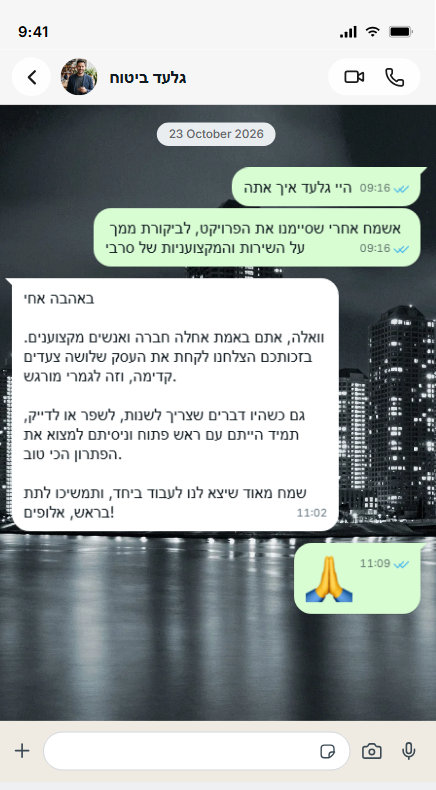
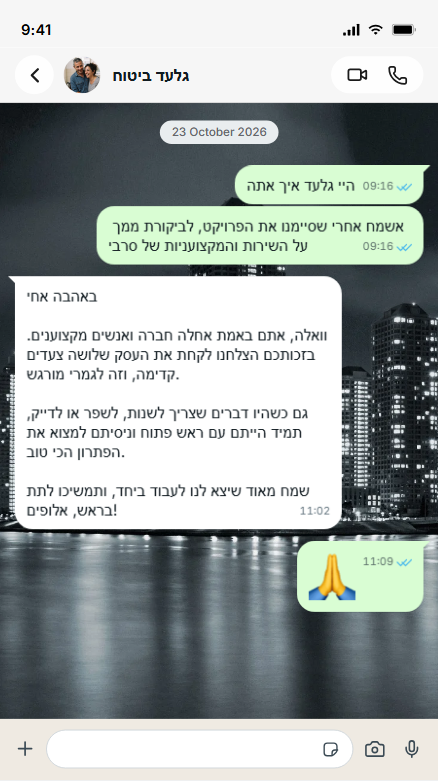
New Gilad review screenshot; demo result is now a tailored system screen with 3 plain steps

diff --git a/index.html b/index.html
@@ -172,41 +172,22 @@
   .try-opt-icon { display: grid; place-items: center; flex-shrink: 0; width: 38px; height: 38px; border-radius: 11px; background: #E6F4F3; color: #115E59; }
   .try-fade { animation: tryIn .45s cubic-bezier(.16,1,.3,1) both; }
   @keyframes tryIn { from { opacity: 0; transform: translateY(10px); } to { opacity: 1; transform: none; } }
-  /* Demo preview window: its own dark "product" palette (indigo/violet/cyan), distinct from the site's greens */
-  .app-win { position: relative; border-radius: 1.25rem; background: #0f1224; border: 1px solid rgba(255,255,255,0.08); box-shadow: 0 40px 80px -40px rgba(49,46,129,0.75), 0 0 0 1px rgba(124,92,255,0.12); overflow: hidden; color: #e8eaf6; }
-  .app-win::before { content: ''; position: absolute; inset: -40% -20% auto auto; width: 70%; height: 90%; background: radial-gradient(closest-side, rgba(124,92,255,0.35), transparent); filter: blur(20px); pointer-events: none; animation: appGlow 8s ease-in-out infinite alternate; }
-  .app-win::after { content: ''; position: absolute; inset: auto auto -40% -20%; width: 60%; height: 80%; background: radial-gradient(closest-side, rgba(34,211,238,0.22), transparent); filter: blur(20px); pointer-events: none; animation: appGlow 10s ease-in-out infinite alternate-reverse; }
-  @keyframes appGlow { from { transform: translate(0,0); } to { transform: translate(-30px, 20px); } }
-  .app-win > * { position: relative; z-index: 1; }
-  .app-bar { display: flex; align-items: center; gap: .5rem; padding: .7rem 1rem; background: rgba(255,255,255,0.03); border-bottom: 1px solid rgba(255,255,255,0.07); }
-  .app-bar i.dot { width: 10px; height: 10px; border-radius: 99px; background: rgba(255,255,255,0.14); display: inline-block; }
-  .app-muted { color: #8d93b8; }
-  .demo-badge { margin-inline-start: auto; border-radius: 99px; background: rgba(255,255,255,0.07); color: #a9aecd; font-size: 11px; padding: .15rem .55rem; }
-  .app-label { margin-bottom: .6rem; font-size: 12px; font-weight: 600; color: #a9aecd; }
-  .flow3 { display: grid; grid-template-columns: 1fr auto 1fr auto 1fr; align-items: stretch; gap: .5rem; }
-  .flow-step { display: flex; flex-direction: column; align-items: center; gap: .3rem; text-align: center; border-radius: .9rem; background: rgba(255,255,255,0.05); border: 1px solid rgba(255,255,255,0.09); padding: .8rem .5rem; }
-  .flow-step b { font-size: .85rem; line-height: 1.3; color: #fff; }
-  .flow-step small { font-size: 11px; color: #a9aecd; }
-  .flow-step-ai { background: linear-gradient(135deg, rgba(124,92,255,0.35), rgba(34,211,238,0.18)); border-color: rgba(124,92,255,0.45); }
-  .flow-ico { display: grid; place-items: center; width: 2rem; height: 2rem; border-radius: 999px; background: rgba(255,255,255,0.1); color: #e8eaf6; }
-  .flow-step-ai .flow-ico { background: linear-gradient(135deg, #7c5cff, #22d3ee); color: #fff; }
-  .flow-arrow { align-self: center; color: #8d93b8; font-size: 1.1rem; }
-  @media (max-width: 560px) { .flow3 { grid-template-columns: 1fr; } .flow-arrow { transform: rotate(-90deg); justify-self: center; } }
-  .feat-list { display: grid; gap: .5rem; }
-  @media (min-width: 640px) { .feat-list { grid-template-columns: 1fr 1fr; } }
-  .feat { display: flex; align-items: center; gap: .5rem; border-radius: .7rem; background: rgba(255,255,255,0.04); padding: .55rem .7rem; font-size: .85rem; color: #e8eaf6; }
-  .feat svg { color: #22d3ee; }
-  .act-row { display: flex; align-items: center; gap: .65rem; padding: .6rem .75rem; border-radius: .8rem; background: rgba(255,255,255,0.04); border: 1px solid rgba(255,255,255,0.06); font-size: .84rem; color: #e8eaf6; animation: actIn .55s cubic-bezier(.16,1,.3,1) both; }
-  .act-row.fresh { background: linear-gradient(90deg, rgba(124,92,255,0.18), rgba(34,211,238,0.08)); border-color: rgba(124,92,255,0.35); }
-  .act-row .ok { width: 8px; height: 8px; border-radius: 99px; background: #34d399; flex-shrink: 0; box-shadow: 0 0 10px rgba(52,211,153,0.8); }
-  @keyframes actIn { from { opacity: 0; transform: translateY(-8px) scale(.98); } to { opacity: 1; transform: none; } }
-  @media (prefers-reduced-motion: reduce) { .app-win::before, .app-win::after, .act-row { animation: none; } }
+  /* Demo result: a light screen of the visitor's system (reuses the .mock styles) plus 3 plain steps */
+  .demo-shot { position: relative; aspect-ratio: 16 / 10; border-radius: 1.5rem; overflow: hidden; border: 1px solid rgba(17,94,89,0.14); box-shadow: 0 30px 60px -40px rgba(17,94,89,0.5); }
+  .demo-shot .mock-win { inset: 8% 5% -5% 5%; font-size: max(2.2cqw, 8.5px); }
+  @media (max-width: 639px) { .demo-shot { aspect-ratio: 4 / 3; } .demo-shot .mock-body { grid-template-columns: 34% 1fr; } }
+  .demo-tag { position: absolute; top: .7rem; left: .8rem; border-radius: 99px; background: rgba(255,255,255,0.85); color: #64748B; font-size: 11px; padding: .15rem .6rem; }
+  .demo-steps { display: grid; gap: .6rem; margin-top: 1rem; }
+  @media (min-width: 640px) { .demo-steps { grid-template-columns: repeat(3, 1fr); } }
+  .demo-steps li { display: flex; align-items: center; gap: .6rem; border-radius: 1rem; background: #fff; border: 1px solid rgba(17,94,89,0.12); padding: .7rem .85rem; font-size: .88rem; line-height: 1.35; color: #0F172A; }
+  .demo-steps li span { display: grid; place-items: center; flex-shrink: 0; width: 1.6rem; height: 1.6rem; border-radius: 99px; background: #0F766E; color: #fff; font-size: .8rem; font-weight: 700; }
   /* Portfolio card mockups: light, schematic views of a system, scaled to the card via container units */
   .mock { position: absolute; inset: 0; container-type: inline-size; overflow: hidden; background: radial-gradient(80% 90% at 85% 0%, rgba(20,184,166,0.16), transparent 60%), linear-gradient(180deg, #F1F8F7, #E3F0EE); }
   .mock-win { position: absolute; inset: 9% 6% -6% 6%; font-size: 2.35cqw; line-height: 1.35; display: flex; flex-direction: column; overflow: hidden; background: #fff; color: #0F172A; border: 1px solid rgba(15,23,42,0.1); border-radius: 1.1em 1.1em 0 0; box-shadow: 0 1.6em 3em -1.6em rgba(17,94,89,0.45); transition: transform .7s cubic-bezier(.16,1,.3,1); }
   .group:hover .mock-win { transform: translateY(-3%); }
   .mock-bar { display: flex; align-items: center; gap: .6em; padding: .65em 1em; border-bottom: 1px solid rgba(15,23,42,0.07); font-weight: 600; white-space: nowrap; }
   .mock-dots { display: flex; gap: .3em; }
+  .mock-title { min-width: 0; overflow: hidden; text-overflow: ellipsis; }
   .mock-dots i { width: .55em; height: .55em; border-radius: 99px; background: #E2E8F0; }
   .mock-status { margin-inline-start: auto; display: inline-flex; align-items: center; gap: .35em; border-radius: 99px; background: #E6F4F3; color: #0F766E; font-size: .85em; font-weight: 500; padding: .15em .65em; }
   .mock-status::before { content: ''; width: .45em; height: .45em; border-radius: 99px; background: #14B8A6; }
@@ -1205,19 +1186,52 @@
       ] },
     ];
 
+    // Per-industry sample data for the demo screen
+    const samples = {
+      realestate: { items: ['מגדלי הים', 'פארק העסקים', 'שכונת הגפן'], ask: 'כמה לידים נכנסו החודש?', ans: '128 לידים החודש' },
+      pro:        { items: ['תיק לוי', 'תיק כהן בע"מ', 'תיק מזרחי'], ask: 'כמה תיקים חדשים נפתחו החודש?', ans: '34 תיקים חדשים' },
+      retail:     { items: ['הזמנה 4821', 'הזמנה 4819', 'הזמנה 4815'], ask: 'כמה הזמנות התקבלו השבוע?', ans: '412 הזמנות השבוע' },
+      agency:     { items: ['קפה נחת', 'סטודיו אור', 'רשת פיט'], ask: 'כמה לקוחות חדשים הצטרפו החודש?', ans: '17 לקוחות חדשים' },
+    };
+    const teamGets = { solo: 'אתם מקבלים הכול מוכן, ישר לוואטסאפ', small: 'הצוות מקבל משימות והתראות בזמן', large: 'כל עובד רואה בדיוק את מה שרלוונטי לו' };
+    // Hebrew "from" prefix: "מ-CRM" before Latin text, "מוואטסאפ" before Hebrew.
+    const from = (x) => (/^[A-Za-z]/.test(x) ? 'מ-' : 'מ') + x;
+    const tag = (text, bg, fg) => `<em class="mock-tag" style="background:${bg};color:${fg}">${text}</em>`;
+    const row = (ava, name, sub, t, on) => `<div class="mock-mail${on ? ' on' : ''}"><span class="mock-ava">${ava}</span><b>${name}</b><span>${sub}</span>${t}</div>`;
+    const side = (label, items) => `<div class="mock-side"><p class="mock-label">${label}</p>${items.map((it, i) =>
+      `<span class="mock-item${i === 0 ? ' on' : ''}">${it[1] ? `<i class="mock-pin" style="background:${it[1]}"></i>` : ''}${it[0]}${it[2] ? `<small>${it[2]}</small>` : ''}</span>`).join('')}</div>`;
+    const TEAL = ['#E6F4F3', '#0F766E'], AMBER = ['#FEF3C7', '#B45309'], RED = ['#FEE2E2', '#B91C1C'];
+
+    // Each system draws a small screen of what it would look like, filled with the visitor's answers
     const systems = {
-      leads:   { name: 'מרכז לידים חכם', icon: 'user-plus', modules: () => ['קליטת לידים מכל הערוצים', 'סיווג אוטומטי לפי חום', 'מענה ראשוני אוטומטי', 'שיוך לנציג ותזכורות'],
-                 acts: (e, s) => ['ליד חדש מוואטסאפ נקלט וסווג: ליד חם', 'נשלחה הודעת מענה ראשונית בשם העסק', `הליד שויך לנציג ועודכן ב-${s}`, 'ליד מטופס האתר נקלט וסווג: בירור מחיר', 'תזכורת נשלחה לנציג: ליד ממתין לחזרה', 'ליד מפייסבוק זוהה ככפול ואוחד'] },
-      email:   { name: 'מנוע מיילים ומסמכים', icon: 'mail', modules: (e) => ['סיווג כל מייל נכנס', `שיוך אוטומטי ${le(e)}`, 'טיוטות תשובה לאישור', 'חיפוש חופשי בכל ההיסטוריה'],
-                 acts: (e, s) => [`מייל חדש סווג ושויך ${le(e)}`, 'נוצרה טיוטת תשובה ומחכה לאישור', 'קובץ PDF מצורף נשמר בתיקייה הנכונה', 'מייל דחוף זוהה והועבר לראש התור', 'חשבונית מצורפת זוהתה ונשמרה', `חיפוש: "הצעת מחיר אחרונה" ← נמצא תוך שנייה`] },
-      calls:   { name: 'ניתוח שיחות מכירה', icon: 'audio-lines', modules: () => ['תמלול אוטומטי בעברית', 'ציון לכל שיחה', 'זיהוי התנגדויות חוזרות', 'לוח בקרה להנהלה'],
-                 acts: (e, s) => ['שיחת מכירה תומללה ונותחה', 'זוהתה התנגדות חוזרת: מחיר', `סיכום השיחה עודכן ב-${s}`, 'שיחה קיבלה ציון 86 · נציג: דנה', 'טיפ אימון נשלח לנציג אחרי השיחה', 'לקוח ביקש הצעת מחיר ← נוצרה משימת מעקב'] },
-      reports: { name: 'עוזר נתונים ארגוני', icon: 'bar-chart-3', modules: (e, s) => ['שאלות בעברית חופשית', `חיבור ישיר ${le(s)}`, 'דוח שבועי אוטומטי', 'התראות על חריגות'],
-                 acts: (e, s, es) => [`"כמה ${es} נפתחו החודש?" ← תשובה מיידית`, 'דוח שבועי נשלח להנהלה', 'זוהתה חריגה ונשלחה התראה', `"מה המגמה ברבעון?" ← גרף נוצר`, `נתונים סונכרנו מ-${s}`, 'סיכום יומי נשלח בוואטסאפ'] },
+      leads: { name: 'מרכז לידים חכם', does: 'קולט כל ליד, מסווג אותו ועונה תוך דקה',
+        screen: (c) => side('ערוצים', [['וואטסאפ', '#25D366', 12], ['טופס באתר', '#0F766E', 8], ['פייסבוק', '#6366F1', 5]]) +
+          `<div class="mock-main"><p class="mock-label">לידים מהיום</p>
+            ${row('ד', 'דנה כהן', 'שאלה על מחיר · מענה נשלח תוך דקה', tag('ליד חם', ...RED), true)}
+            ${row('י', 'יוסי לוי', 'השאיר פרטים באתר · שויך לנציג', tag('חדש', ...TEAL))}
+            ${row('מ', 'מיכל אברהם', 'ממתינה לחזרה · נשלחה תזכורת', tag('במעקב', ...AMBER))}</div>` },
+      email: { name: 'מנוע מיילים ומסמכים', does: 'מסווג כל מייל ושומר אותו במקום הנכון',
+        search: 'הצעת מחיר אחרונה',
+        screen: (c) => side(c.entities, c.items.map((x, i) => [x, ['#0F766E', '#F59E0B', '#6366F1'][i], [12, 8, 5][i]])) +
+          `<div class="mock-main">
+            ${row('ס', 'ספק ראשי', 'חוזה מעודכן · שויך ל' + c.items[0], tag('חוזה', ...TEAL), true)}
+            ${row('ה', 'הנהלת חשבונות', 'חשבונית לחודש אוקטובר', tag('חשבונית', ...AMBER))}
+            ${row('ל', 'לקוח', 'בקשה דחופה · טיוטת תשובה מוכנה', tag('דחוף', ...RED))}</div>` },
+      calls: { name: 'ניתוח שיחות מכירה', does: 'מתמלל כל שיחה, נותן ציון ומזהה התנגדויות',
+        screen: (c) => side('נציגים', [['דנה', '', 92], ['יואב', '', 84], ['מיכל', '', 78]]) +
+          `<div class="mock-main">
+            ${row('ד', 'שיחה עם לקוח · 12 דק\'', 'תומללה ונותחה אוטומטית', tag('ציון 86', ...TEAL), true)}
+            <div class="mock-a" style="width:92%"><b style="font-size:1em">לקוח:</b> נשמע טוב, אבל המחיר קצת גבוה ${tag('התנגדות: מחיר', ...AMBER)}</div>
+            <div class="mock-q" style="max-width:92%">נציג: אפשר לפרוס לתשלומים, אשלח הצעה מסודרת</div></div>` },
+      reports: { name: 'עוזר נתונים ארגוני', does: 'עונה על כל שאלה מתוך הנתונים שלכם',
+        screen: (c) => side('שאלות אחרונות', [['שאלה חדשה'], ['דוח שבועי'], ['מגמה ברבעון']]) +
+          `<div class="mock-main"><div class="mock-q">${c.ask}</div>
+            <div class="mock-a"><b>${c.ans}</b>, 23% יותר מהתקופה הקודמת.
+              <div class="mock-bars"><span style="height:45%"></span><span style="height:60%"></span><span style="height:52%"></span><span style="height:100%"></span></div>
+              <span class="mock-src">מקור: ${c.src}</span></div></div>` },
     };
     // Hebrew "to" prefix: "ל-CRM" before Latin text, "לוואטסאפ" before Hebrew.
     const le = (x) => (/^[A-Za-z]/.test(x) ? 'ל-' : 'ל') + x;
-    const teamModule = { solo: 'עוזר אישי בוואטסאפ', small: 'התראות ומשימות לצוות', large: 'הרשאות לפי תפקיד' };
 
     let step = 0;
     let liveTimer = null;
@@ -1265,37 +1279,38 @@
     }
 
     function renderResult() {
+      stopLive();
       const ind = pick(questions[0], answers.industry);
       const pain = pick(questions[1], answers.pain);
       const src = pick(questions[2], answers.source);
       const team = pick(questions[3], answers.team);
       const sys = systems[answers.pain];
-      const modules = [...sys.modules(ind.entity, src.name), teamModule[answers.team]];
-      const acts = sys.acts(ind.entity, src.name, ind.entities);
-      const title = `${sys.name} · ${ind.label.split(' (')[0]}`;
+      const indName = ind.label.split(' (')[0];
+      const ctx = { ...samples[answers.industry], entities: ind.entities, src: src.name };
+      const bar = sys.search
+        ? `<span class="mock-search"><svg viewBox="0 0 24 24" fill="none" stroke="currentColor" stroke-width="2.4" stroke-linecap="round"><circle cx="11" cy="11" r="7"/><path d="m20 20-3.5-3.5"/></svg>${sys.search}</span>`
+        : `<span class="mock-status">מסונכרן עם ${src.name}</span>`;
 
-      body.innerHTML = `<div class="try-fade grid lg:grid-cols-5 gap-6 items-start">
-        <div class="lg:col-span-3 app-win">
-          <div class="app-bar"><i class="dot"></i><i class="dot"></i><i class="dot"></i><span class="mr-2 text-sm font-semibold truncate">${title}</span><span class="demo-badge">דמו להמחשה</span></div>
-          <div class="p-5 sm:p-6">
-            <p class="app-label">1 · איך זה עובד</p>
-            <div class="flow3">
-              <div class="flow-step"><span class="flow-ico"><i data-lucide="${src.icon}" class="w-4 h-4"></i></span><b>${src.name}</b><small>המידע נכנס מכאן</small></div>
-              <span class="flow-arrow" aria-hidden="true">←</span>
-              <div class="flow-step flow-step-ai"><span class="flow-ico"><i data-lucide="sparkles" class="w-4 h-4"></i></span><b>${sys.name}</b><small>מטפל בזה אוטומטית</small></div>
-              <span class="flow-arrow" aria-hidden="true">←</span>
-              <div class="flow-step"><span class="flow-ico"><i data-lucide="${team.icon}" class="w-4 h-4"></i></span><b>${team.label.split(' (')[0]}</b><small>מקבלים את התוצאה</small></div>
+      body.innerHTML = `<div class="try-fade grid lg:grid-cols-5 gap-8 items-center">
+        <div class="lg:col-span-3">
+          <div class="demo-shot">
+            <div class="mock" role="img" aria-label="הדמיה של ${sys.name} לתחום ${indName}">
+              <div class="mock-win" aria-hidden="true">
+                <div class="mock-bar"><span class="mock-dots"><i></i><i></i><i></i></span><span class="mock-title">${sys.name} · ${indName}</span>${bar}</div>
+                <div class="mock-body">${sys.screen(ctx)}</div>
+              </div>
             </div>
-            <p class="app-label mt-6">2 · מה המערכת עושה בשבילכם</p>
-            <ul class="feat-list">${modules.map(m =>
-              `<li class="feat"><i data-lucide="check" class="w-4 h-4 shrink-0"></i>${m}</li>`).join('')}</ul>
-            <p class="app-label mt-6">3 · ככה זה נראה ביום רגיל</p>
-            <div id="appFeed" class="flex flex-col gap-2"></div>
+            <span class="demo-tag">דמו להמחשה</span>
           </div>
+          <ol class="demo-steps">
+            <li><span>1</span>המידע נכנס ${from(src.name)}</li>
+            <li><span>2</span>${sys.does}</li>
+            <li><span>3</span>${teamGets[answers.team]}</li>
+          </ol>
         </div>
         <div class="lg:col-span-2">
           <p class="font-display font-bold text-xl text-primary">זו הטיוטה הראשונה שלכם</p>
-          <p class="mt-2 text-secondary leading-relaxed">${sys.name} לתחום ${ind.label.split(' (')[0]}, שמתחבר ${le(src.name)} ומותאם ${le(team.label.split(' (')[0])}. בשיחת האבחון נבין את התהליך המדויק שלכם ונהפוך את הטיוטה הזו למערכת אמיתית.</p>
+          <p class="mt-2 text-secondary leading-relaxed">${sys.name} לתחום ${indName}, שמתחבר ${le(src.name)}. בשיחת האבחון נבין את התהליך המדויק שלכם ונהפוך את הטיוטה הזו למערכת אמיתית.</p>
           <div class="mt-6 flex flex-col sm:flex-row lg:flex-col gap-3">
             <a href="#contact" id="tryCta" class="inline-flex items-center justify-center gap-2 rounded-full bg-grad-royal text-white font-medium px-6 py-3">קבעו שיחת אבחון על המערכת הזו<i data-lucide="arrow-left" class="w-4 h-4"></i></a>
             <button type="button" id="tryAgain" class="text-sm text-secondary hover:text-primary">להתחיל מחדש</button>
@@ -1303,23 +1318,6 @@
           <p class="mt-4 text-xs text-muted">ללא עלות וללא התחייבות · 20 דקות</p>
         </div>
       </div>`;
-
-      // Example feed: a new action slides in every few seconds to show the system at work.
-      // Illustrative only (the window is labelled "דמו להמחשה").
-      const feed = document.getElementById('appFeed');
-      let n = 0;
-      const pushAct = () => {
-        const row = document.createElement('div');
-        row.className = 'act-row fresh';
-        row.innerHTML = `<span class="ok"></span><span>${acts[n % acts.length]}</span>`;
-        feed.prepend(row);
-        setTimeout(() => row.classList.remove('fresh'), 1400);
-        while (feed.children.length > 3) feed.lastElementChild.remove();
-        n++;
-      };
-      [0, 1, 2].forEach(i => setTimeout(pushAct, 250 + i * 450));
-      stopLive();
-      setTimeout(() => { if (document.body.contains(feed)) liveTimer = setInterval(pushAct, 3500); }, 1600);
 
       document.getElementById('tryAgain').addEventListener('click', () => { step = 0; Object.keys(answers).forEach(k => delete answers[k]); renderQuestion(); });
       document.getElementById('tryCta').addEventListener('click', () => {
